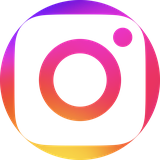
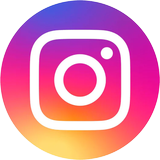
Update jazz ratio, Imaike CTA copy, privacy policy contact, and add LINE/Instagram follow section
- Home page: change the jazz/pops ratio from 60/40 to 70/30
- Home page: replace the Instagram icon with the official gradient logo (cropped/masked to match the existing circular icon set)
- Home page: add a "Follow" section (LINE + Instagram) above the footer CTA
- Imaike lesson page: remove the "お会いできる月は多くありません..." line and simplify the now single-column limited-period block
- Imaike page CTA (footer): replace "月に一度の60分を、いっしょに使いませんか。" with "音楽の可能性を広げていきましょう。" to match the hero copy
- Privacy policy: replace the published e-mail address with a link to the contact form

Claude-Session: https://claude.ai/code/session_016JGJnghJDLWqokC7RPcCYf

diff --git a/src/app/page.tsx b/src/app/page.tsx
@@ -57,8 +57,8 @@ const RATIOS = [
   {
     title: "ジャズを学ぶ割合",
     note: null,
-    major: { label: "ジャズ", percent: 60 },
-    minor: { label: "ポップス", percent: 40 },
+    major: { label: "ジャズ", percent: 70 },
+    minor: { label: "ポップス", percent: 30 },
   },
 ];
 
@@ -79,6 +79,27 @@ const PRICES = [
     unit: "/ 月　45分",
     tag: null,
     variant: "main" as const,
+  },
+];
+
+// 申し込みフォーム以外の接点。文言はユーザー指定のものをそのまま置く
+// LINEのURLは問い合わせ用の導線として指定されたもので、フッターのアイコン列とは別に持つ
+const SOCIAL_CTA = [
+  {
+    en: "LINE",
+    src: "/images/social/line.png",
+    title: "公式LINEでお問い合わせ受付中！",
+    body: "レッスンや空き状況のご確認など、公式LINEよりお気軽にお問い合わせください。",
+    button: "公式LINEを開く",
+    href: "https://lin.ee/9RXKZZhd",
+  },
+  {
+    en: "Instagram",
+    src: "/images/social/instagram.png",
+    title: "Instagramでも発信中！",
+    body: "レッスンの様子や最新のお知らせ、演奏動画などをInstagramで更新しています。ぜひフォローしてチェックしてみてください！",
+    button: "Instagramを見る",
+    href: "https://www.instagram.com/hellojazzacademy",
   },
 ];
 
@@ -672,6 +693,43 @@ export default async function Home() {
               ))}
             </dl>
           </Reveal>
+        </div>
+      </section>
+
+      {/* ============================== SOCIAL ============================== */}
+      {/* 申し込みフォーム(フッター)の手前に、もっと軽い接点を2つ置く */}
+      <section id="social" className="section pt-0 md:pt-0">
+        <div className="container-page">
+          <Reveal>
+            <SectionLabel>Follow</SectionLabel>
+          </Reveal>
+
+          <ul className="mt-10 grid gap-x-12 gap-y-10 md:mt-12 md:grid-cols-2">
+            {SOCIAL_CTA.map((s, i) => (
+              <Reveal as="li" key={s.en} delay={i * 80} className="border-t border-rule pt-6">
+                <div className="flex items-center gap-3">
+                  <Image
+                    src={s.src}
+                    alt=""
+                    width={160}
+                    height={160}
+                    className="w-7 shrink-0 rounded-full"
+                  />
+                  <p className="eyebrow">{s.en}</p>
+                </div>
+                <h3 className="subheading mt-4">{s.title}</h3>
+                <p className="body-text measure mt-3">{s.body}</p>
+                <a
+                  href={s.href}
+                  target="_blank"
+                  rel="noopener noreferrer"
+                  className="btn btn-primary btn-sm mt-6"
+                >
+                  {s.button}
+                </a>
+              </Reveal>
+            ))}
+          </ul>
         </div>
       </section>
     </main>

diff --git a/src/app/privacypolicy/page.tsx b/src/app/privacypolicy/page.tsx
@@ -1,6 +1,7 @@
 import type { Metadata } from "next";
 import Reveal from "@/components/Reveal";
 import SectionLabel from "@/components/SectionLabel";
+import { TRIAL_FORM_URL } from "@/components/SiteHeader";
 
 /*
  * プライバシーポリシー。
@@ -72,7 +73,7 @@ const CONTACT_ROWS = [
   { en: "Name", body: "Hello Jazz Academy" },
   { en: "Director", body: "河地 里咲" },
   { en: "Address", body: "愛知県名古屋市天白区" },
-  { en: "E-mail", body: "info@hellojazzacademy.com" },
+  { en: "Contact", body: "お問い合わせフォーム", href: TRIAL_FORM_URL },
 ];
 
 export default function PrivacyPolicy() {
@@ -127,7 +128,20 @@ export default function PrivacyPolicy() {
                     className="flex flex-col gap-1.5 border-b border-rule py-4 sm:flex-row sm:gap-8"
                   >
                     <dt className="eyebrow eyebrow-faint shrink-0 pt-1 sm:w-28">{row.en}</dt>
-                    <dd className="body-text">{row.body}</dd>
+                    <dd className="body-text">
+                      {row.href ? (
+                        <a
+                          href={row.href}
+                          target="_blank"
+                          rel="noopener noreferrer"
+                          className="link-quiet"
+                        >
+                          {row.body}
+                        </a>
+                      ) : (
+                        row.body
+                      )}
+                    </dd>
                   </div>
                 ))}
               </dl>

diff --git a/src/app/imaike_jazzpiano_lesson/page.tsx b/src/app/imaike_jazzpiano_lesson/page.tsx
@@ -291,17 +291,12 @@ export default function ImaikeLesson() {
 
           {/* 期間限定であることは、このページで一番伝わってほしい約束 */}
           <Reveal delay={160} className="mt-14 md:mt-20">
-            <div className="flex flex-col gap-5 border-y border-magenta py-10 md:flex-row md:items-center md:justify-between md:gap-12 md:py-12">
-              <div>
-                <p className="eyebrow eyebrow-magenta">Limited period</p>
-                <p className="heading mt-4">
-                  2026年5月から2027年3月までの、
-                  <br className="hidden lg:block" />
-                  期間限定レッスンです。
-                </p>
-              </div>
-              <p className="caption measure shrink-0 md:max-w-xs">
-                お会いできる月は多くありません。気になっている方は、どうぞお早めに。
+            <div className="border-y border-magenta py-10 md:py-12">
+              <p className="eyebrow eyebrow-magenta">Limited period</p>
+              <p className="heading mt-4">
+                2026年5月から2027年3月までの、
+                <br className="hidden lg:block" />
+                期間限定レッスンです。
               </p>
             </div>
           </Reveal>

diff --git a/src/components/SiteFooter.tsx b/src/components/SiteFooter.tsx
@@ -49,7 +49,7 @@ const ONLINE_CTA = {
 
 // 今池だけは申し込みを外部フォームで受けるため、ボタンの行き先が違う
 const IMAIKE_CTA = {
-  heading: ["月に一度の60分を、", "いっしょに使いませんか。"],
+  heading: ["音楽の可能性を広げていきましょう。"],
   lead: "お申し込みフォームに、ご希望の月と時間帯、いま弾ける曲や学びたいことを添えてお送りください。開催日と会場の詳しい場所をご案内します。受講経験のある方は、LINEからでも承ります。",
   button: "申し込みフォームへ",
   price: "60min ¥10,000",
